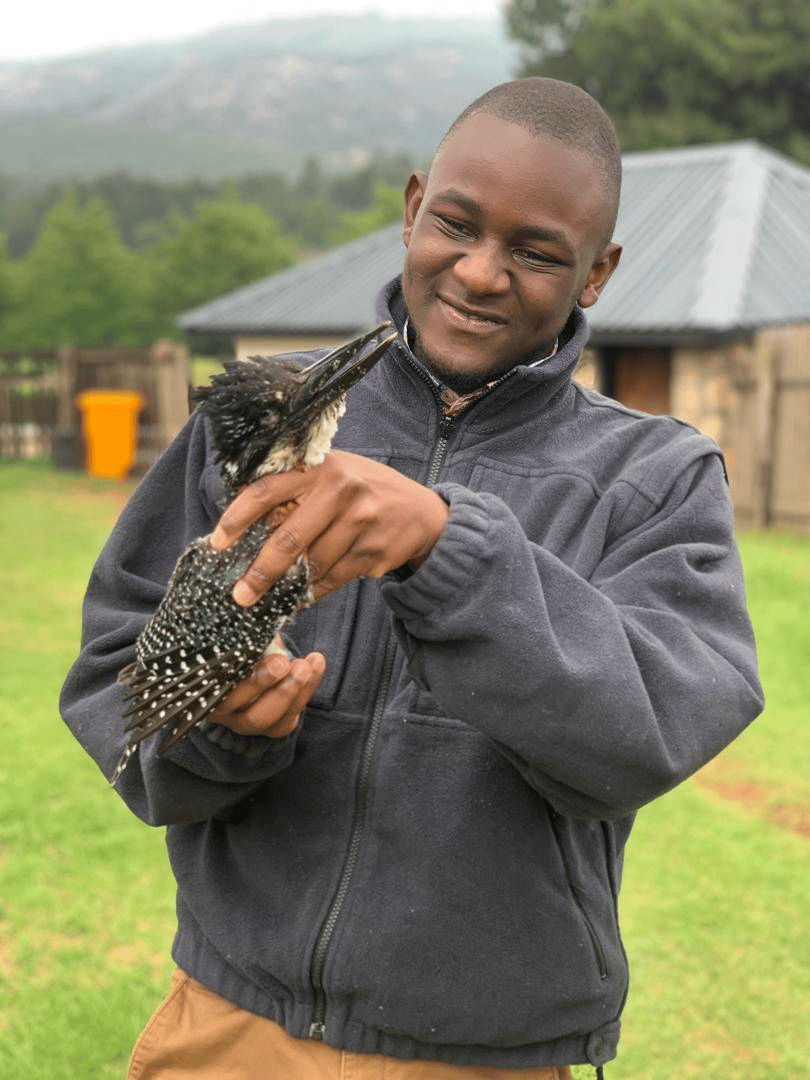
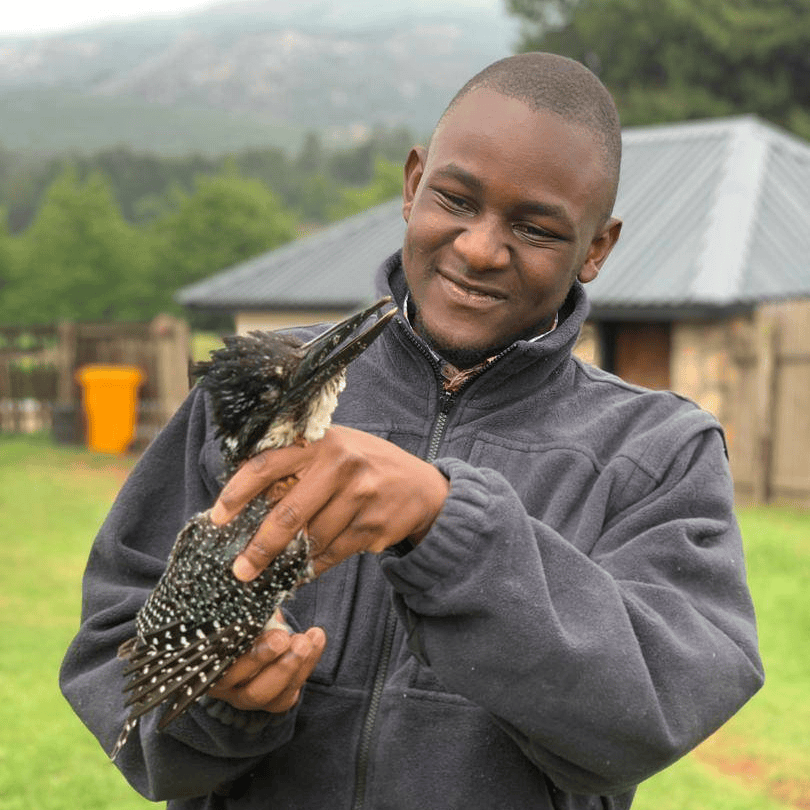
like loop on their own, i know they have arrows to use but i also want t

diff --git a/src/app/_components/testimonials-section.tsx b/src/app/_components/testimonials-section.tsx
@@ -1,3 +1,5 @@
+'use client';
+
 import Image from 'next/image';
 import { testimonials } from '@/lib/data';
 import { Card, CardContent } from '@/components/ui/card';
@@ -8,6 +10,7 @@ import {
   CarouselNext,
   CarouselPrevious,
 } from '@/components/ui/carousel';
+import Autoplay from 'embla-carousel-autoplay';
 import { Star } from 'lucide-react';
 
 export function TestimonialsSection() {
@@ -25,6 +28,13 @@ export function TestimonialsSection() {
             align: "start",
             loop: true,
           }}
+          plugins={[
+            Autoplay({
+              delay: 5000,
+              stopOnInteraction: true,
+              stopOnMouseEnter: true,
+            }),
+          ]}
           className="w-full max-w-4xl mx-auto mt-16"
         >
           <CarouselContent>
